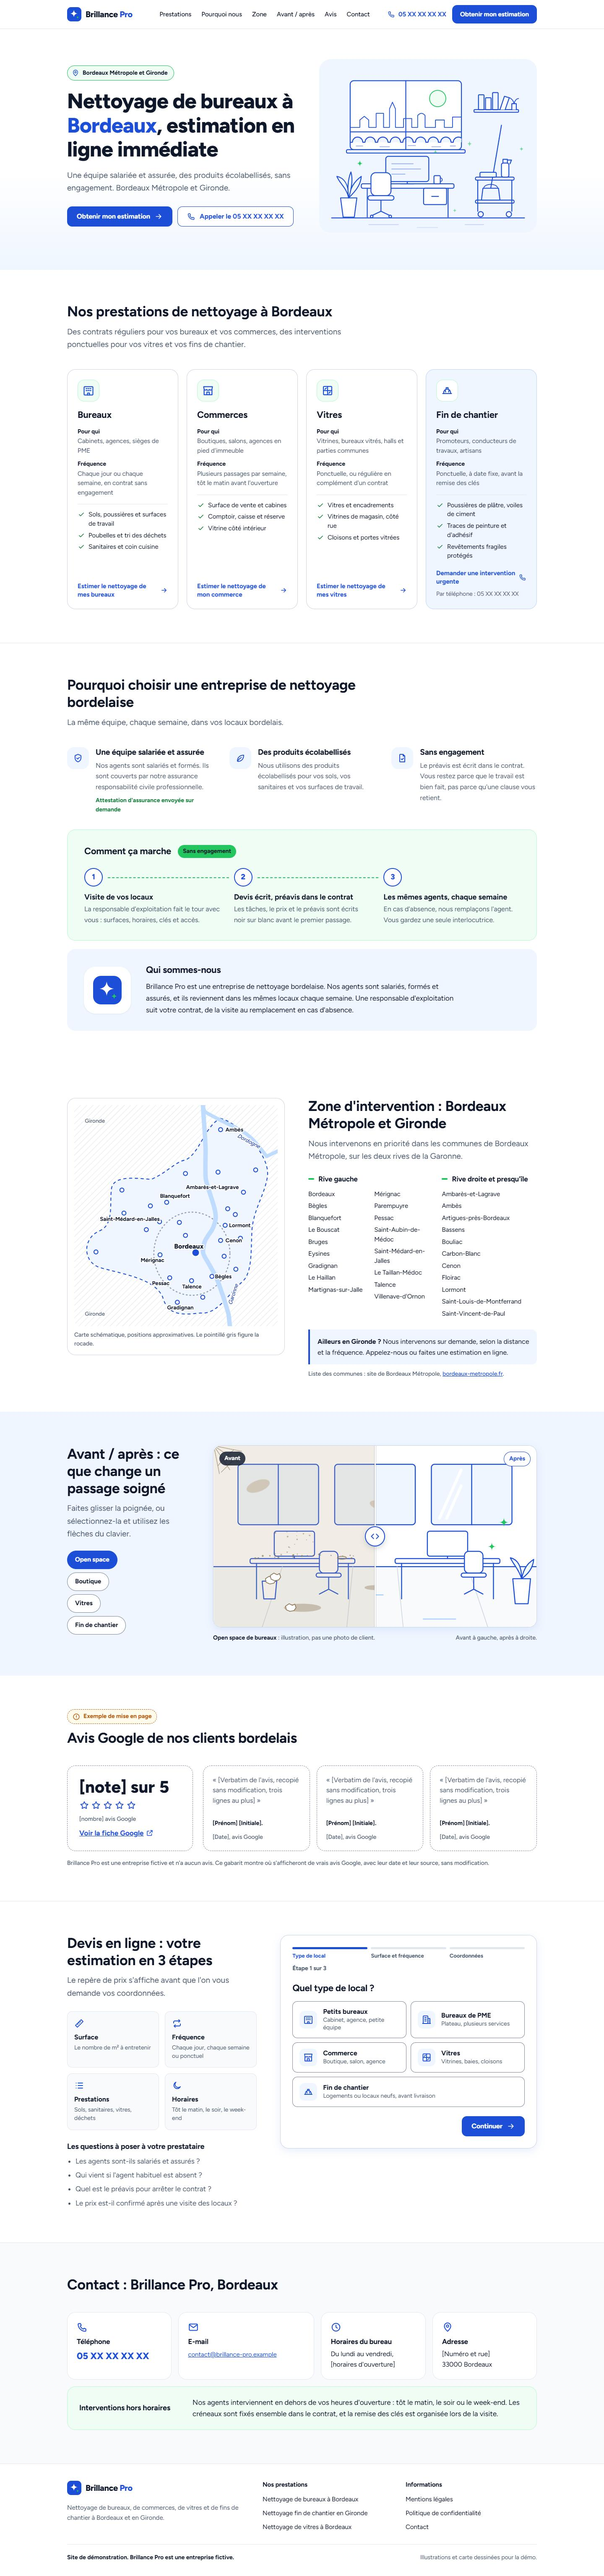
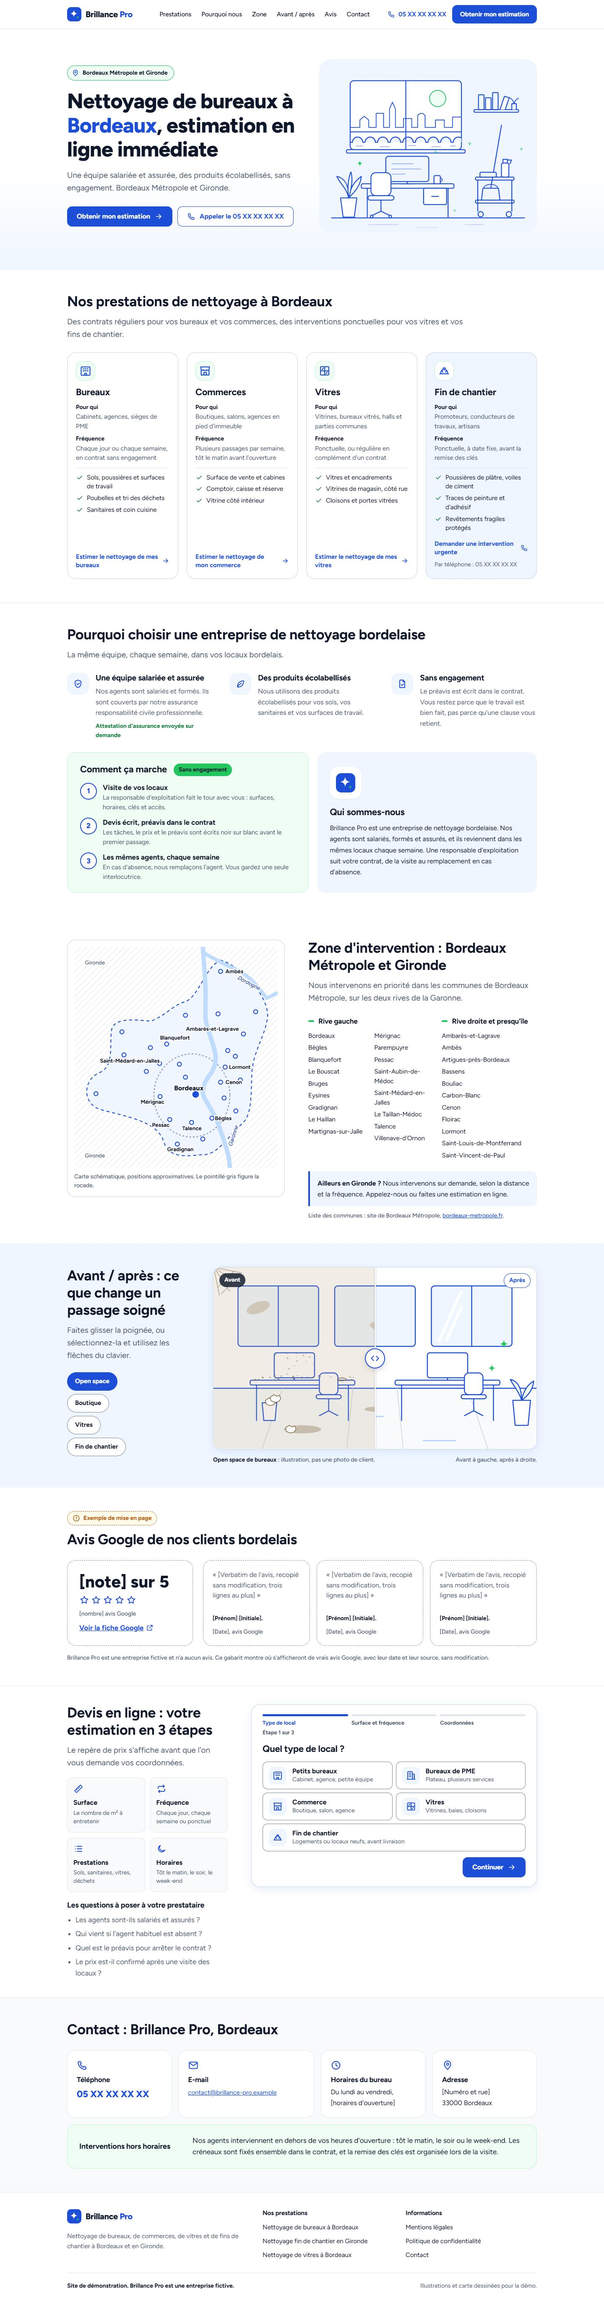
Fit each anchored section in one screen on the services-pme homepage

diff --git a/vitrine-services-pme/index.html b/vitrine-services-pme/index.html
@@ -50,7 +50,7 @@
 }
 *,*::before,*::after{box-sizing:border-box}
 [hidden]{display:none !important}
-html{scroll-behavior:smooth;scroll-padding-top:calc(var(--header) + 12px);-webkit-text-size-adjust:100%}
+html{scroll-behavior:smooth;scroll-padding-top:calc(var(--header) + 1px);-webkit-text-size-adjust:100%}
 body{margin:0;font-family:var(--font);font-size:16px;line-height:1.6;color:var(--ink);background:var(--bg);overflow-x:hidden}
 img,svg{display:block;max-width:100%}
 a{color:var(--blue)}
@@ -69,7 +69,7 @@ section{padding:56px 0}
 .lead{font-size:18px;line-height:1.6;color:var(--gray);max-width:62ch}
 .blue{color:var(--blue)}
 .small{font-size:14px;line-height:1.5;font-weight:500;color:var(--gray)}
-.sec-head{max-width:720px;margin-bottom:32px}
+.sec-head{max-width:960px;margin-bottom:32px}
 .sec-head h2{margin-bottom:12px}
 @media (min-width:1024px){
   body{font-size:17px}
@@ -77,8 +77,9 @@ section{padding:56px 0}
   h2{font-size:34px}
   h3{font-size:22px}
   .lead{font-size:19px}
-  section{padding:80px 0}
-  .sec-head{margin-bottom:44px}
+  section{padding:56px 0}
+  .sec-head{margin-bottom:28px}
+  .sec-head .lead{max-width:80ch}
 }
 
 /* Buttons */
@@ -114,7 +115,7 @@ section{padding:56px 0}
   .head-actions{margin-left:8px}
   .head-cta{display:inline-flex;min-height:44px;font-size:15px;padding:0 18px}
 }
-@media (max-width:420px){ .head-tel .num{display:none} .head-tel{border:1.5px solid var(--blue);border-radius:var(--r-md);padding:9px 12px} }
+@media (max-width:420px){ .head-tel .num{display:none} .head-tel{padding:10px;margin-right:-10px} .head-tel svg{width:24px;height:24px} .head-tel:focus-visible{outline:none;color:var(--ink);opacity:.75} }
 
 /* Hero */
 .hero{padding:32px 0 48px;background:linear-gradient(180deg,#fff 0%,#fff 60%,var(--blue-50) 100%)}
@@ -163,7 +164,7 @@ section{padding:56px 0}
 .card.urgent .pastille{background:#fff}
 .card.urgent .tel-line{font-size:14px;color:var(--gray);margin-top:8px}
 @media (min-width:640px){ .cards{grid-template-columns:1fr 1fr} }
-@media (min-width:1120px){ .cards{grid-template-columns:repeat(4,1fr)} }
+@media (min-width:1120px){ .cards{grid-template-columns:repeat(4,1fr)} .card{padding:20px 20px 22px} .card .pastille{width:46px;height:46px;margin-bottom:14px} .card h3{margin-bottom:10px} .card dl{gap:8px;margin-bottom:12px} .card ul{padding-top:12px;margin-bottom:16px} }
 
 /* Pourquoi nous */
 .why{border-top:1px solid var(--n100)}
@@ -197,6 +198,22 @@ section{padding:56px 0}
 .about p{font-size:17px;line-height:1.65;max-width:68ch}
 .about .small{margin-top:12px}
 @media (min-width:900px){ .about{grid-template-columns:auto 1fr;gap:36px;padding:36px 40px} }
+@media (min-width:1100px){
+  .args{margin-bottom:28px}
+  .why-pair{display:grid;grid-template-columns:1.1fr 1fr;gap:20px;align-items:stretch}
+  .why-pair .how{margin:0;padding:26px 30px}
+  .why-pair .how-head{margin-bottom:16px}
+  .why-pair .how ol{grid-template-columns:1fr;gap:14px}
+  .why-pair .how li{grid-template-columns:40px 1fr;gap:14px}
+  .why-pair .how li::before{width:40px;height:40px;font-size:17px}
+  .why-pair .how li::after{display:none}
+  .why-pair .how h4{font-size:17px;margin-bottom:2px}
+  .why-pair .how p{font-size:15px;line-height:1.5}
+  .why-pair .about{grid-template-columns:1fr;gap:18px;padding:26px 30px;align-content:center}
+  .why-pair .about-mark{width:76px;height:76px;border-radius:20px}
+  .why-pair .about-mark svg{width:46px;height:46px}
+  .why-pair .about p{font-size:16px}
+}
 
 /* Zone */
 .zone .wrap{display:grid;gap:36px;align-items:start}
@@ -346,6 +363,32 @@ textarea.input{min-height:96px;resize:vertical}
 .success p{font-size:17px}
 @media (min-width:600px){ .form-card{padding:28px} }
 .quote .intro-more{order:3}
+@media (min-width:1000px){
+  .quote .wrap{grid-template-columns:.72fr 1.28fr !important}
+  .quote-sec{padding:44px 0}
+  .quote .factors{margin:20px 0;gap:12px}
+  .factor{padding:14px}
+  .form-card{padding:22px 26px}
+  .progress{margin-bottom:14px}
+  .progress ol{margin-bottom:4px}
+  .progress .count{font-size:13px}
+  .step > .small{margin-bottom:12px}
+  .field{margin-bottom:12px;gap:5px}
+  .chip span{min-height:40px;padding:0 14px;font-size:14.5px}
+  .or{margin:0 0 4px}
+  .radio-card{padding:11px 14px}
+  .types{gap:8px}
+  .step-actions{margin-top:14px}
+  .estimate{margin-top:12px;padding:14px 18px;display:grid;grid-template-columns:auto 1fr;gap:2px 24px;align-items:center}
+  .estimate .k,.estimate .src{grid-column:1 / -1}
+  .estimate .price{margin:2px 0;font-size:36px}
+  .estimate .warn{margin-top:4px}
+  .estimate .src{margin-top:8px;font-size:12.5px}
+  .estimate .noref{grid-column:1 / -1}
+  textarea.input{min-height:64px}
+  .rgpd{margin-top:12px;padding-top:10px;font-size:12.5px}
+  .err{font-size:13.5px;line-height:1.4}
+}
 @media (min-width:1000px){ .quote .wrap{grid-template-columns:.85fr 1.15fr;grid-template-rows:auto 1fr;column-gap:56px;row-gap:0} .quote .intro{grid-column:1;grid-row:1} .quote .intro-more{grid-column:1;grid-row:2;order:0} .quote .form-card{grid-column:2;grid-row:1 / span 2} }
 
 /* Contact */
@@ -633,6 +676,7 @@ textarea.input{min-height:96px;resize:vertical}
       </div>
     </div>
 
+    <div class="why-pair">
     <div class="how" aria-labelledby="how-title">
       <div class="how-head">
         <h3 id="how-title">Comment ça marche</h3>
@@ -651,6 +695,7 @@ textarea.input{min-height:96px;resize:vertical}
         <h3 id="about-title">Qui sommes-nous</h3>
         <p>Brillance Pro est une entreprise de nettoyage bordelaise. Nos agents sont salariés, formés et assurés, et ils reviennent dans les mêmes locaux chaque semaine. Une responsable d'exploitation suit votre contrat, de la visite au remplacement en cas d'absence.</p>
       </div>
+    </div>
     </div>
   </div>
 </section>
